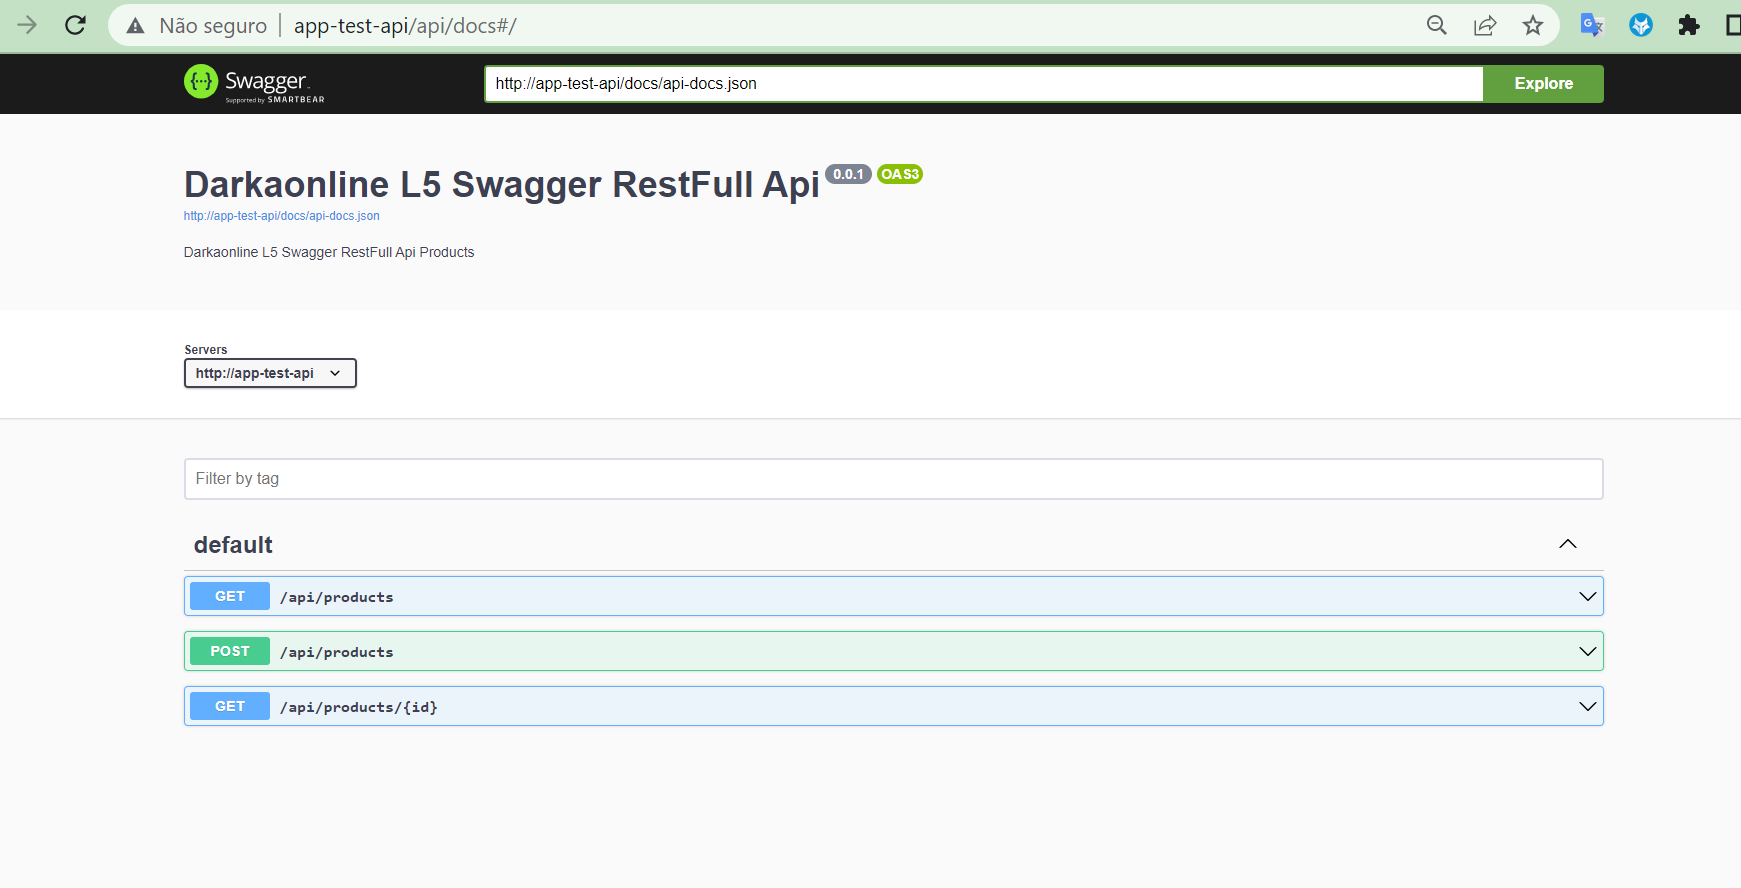
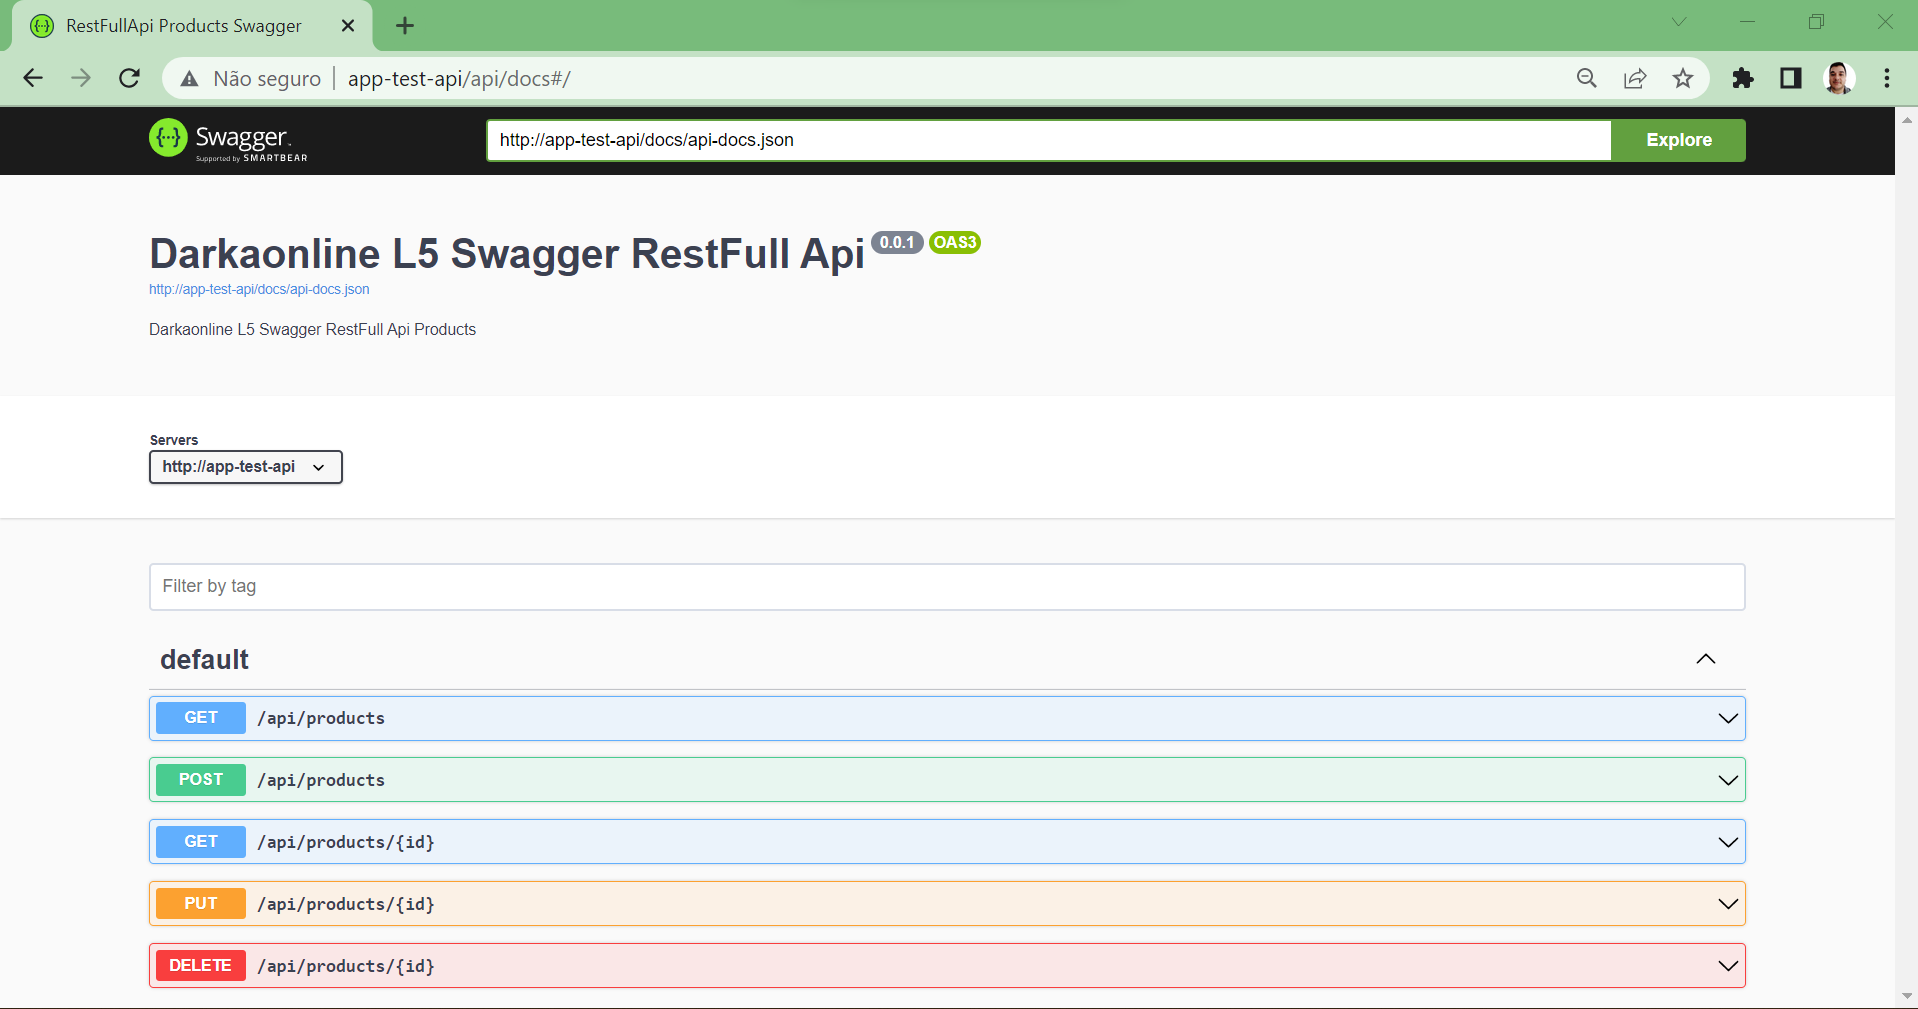
Swagger put e delete

diff --git a/app/Http/Controllers/ProductsController.php b/app/Http/Controllers/ProductsController.php
@@ -138,10 +138,10 @@ class ProductsController extends Controller
      *     @OA\Response(response="default", description="Get list products id")
      * )
      * Buscar produtos id
-     * @param $id
+     * @param int $id
      * @return \Illuminate\Http\Response
      */
-    public function show($id)
+    public function show(int $id)
     {
         $products = Products::find($id);
 
@@ -158,6 +158,60 @@ class ProductsController extends Controller
     }
 
     /**
+     * @OA\Put(
+     *     path="/api/products/{id}",
+     *     description="Update products",
+     *     @OA\Parameter(
+     *          name="id",
+     *          in="path",
+     *          required=true,
+     *          description="Pul product igual id",
+     *          @OA\Schema(
+     *              type="integer"
+     *          ),
+     *     ),
+     *     @OA\Parameter(
+     *          name="codigo",
+     *          in="query",
+     *          required=true,
+     *          @OA\Schema(
+     *              type="integer"
+     *          ),
+     *     ),
+     *     @OA\Parameter(
+     *          name="nome",
+     *          in="query",
+     *          required=true,
+     *          @OA\Schema(
+     *              type="string"
+     *          ),
+     *     ),
+     *     @OA\Parameter(
+     *          name="preco",
+     *          in="query",
+     *          required=true,
+     *          @OA\Schema(
+     *              type="integer"
+     *          ),
+     *     ),
+     *     @OA\Parameter(
+     *          name="qty_disponivel",
+     *          in="query",
+     *          required=true,
+     *          @OA\Schema(
+     *              type="integer"
+     *          ),
+     *     ),
+     *     @OA\Parameter(
+     *          name="marca",
+     *          in="query",
+     *          required=true,
+     *          @OA\Schema(
+     *              type="string"
+     *          ),
+     *     ),
+     *     @OA\Response(response="default", description="Update product")
+     * )
      * Atualizar produto pelo id
      * @param int $id
      * @param  \Illuminate\Http\Request  $request
@@ -165,6 +219,7 @@ class ProductsController extends Controller
      */
     public function update(Request $request,int $id)
     {
+
         $products = Products::find($id);
 
         if(!$products) {
@@ -197,11 +252,25 @@ class ProductsController extends Controller
     }
 
     /**
-     * Remover produto pelo id
+     * @OA\Delete(
+     *     path="/api/products/{id}",
+     *     description="Delete product igual id",
+     *     @OA\Parameter(
+     *          name="id",
+     *          in="path",
+     *          required=true,
+     *          description="Delete product igual id",
+     *          @OA\Schema(
+     *              type="integer"
+     *          ),
+     *     ),
+     *     @OA\Response(response="default", description="Delete product igual id")
+     * )
+     * Buscar produtos id
      * @param int $id
      * @return \Illuminate\Http\Response
      */
-    public function destroy($id)
+    public function destroy(int $id)
     {
         $products = Products::find($id);
         if(!$products) {
